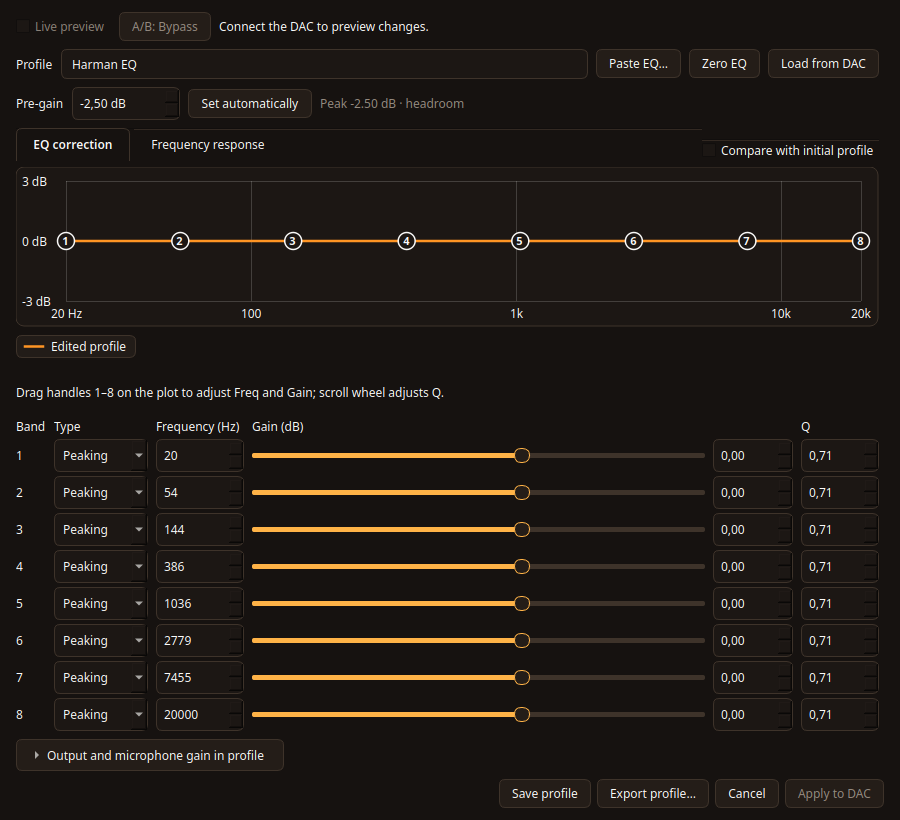
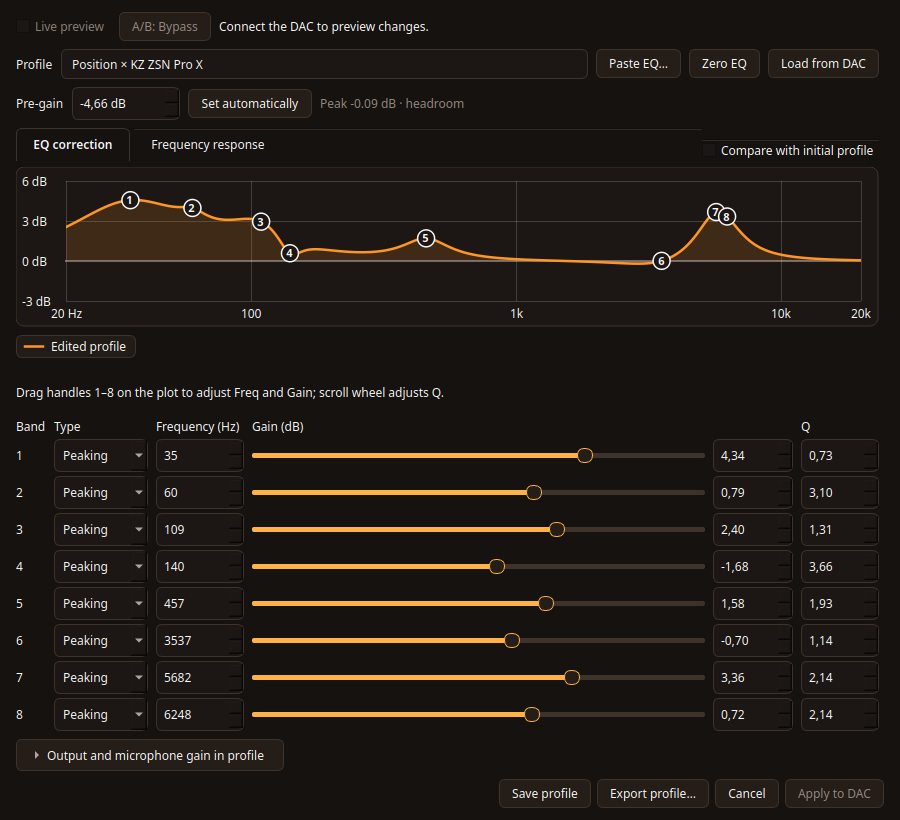
docs: use non-flat EQ editor screenshot and add spacing between README screenshots (#33)

diff --git a/README.pl.md b/README.pl.md
@@ -127,15 +127,21 @@ Manifest ([`pl.innovibe.DspControl.json`](pl.innovibe.DspControl.json)) używa `
 
 </details>
 
+<br>
+
 ### 2. Wbudowany katalog AutoEq (ponad 6800 modeli)
 Filtruj tysiące pomiarów według **Źródła**, **Typu słuchawek** i **Zakresu obliczeń** (`20 Hz–20 kHz` lub `6 / 4 / 2 kHz`) albo przeciągnij na okno własną krzywą `.csv` / `.txt`.
 
 ![Katalog AutoEq](docs/screenshots/pl/02-autoeq-catalog.png)
 
+<br>
+
 ### 3. Edytor EQ i odsłuch na żywo
 Przeciągaj punkty bezpośrednio na wykresie **Korekcja EQ**, zmieniaj Q kółkiem myszy i użyj **Ustaw automatycznie** do doboru pre-gainu. Przy podłączonym DAC-u **Odsłuch na żywo** uruchamia się automatycznie i bezpiecznie przywraca stan po anulowaniu.
 
 ![Edytor EQ](docs/screenshots/pl/04-eq-editor.png)
+
+<br>
 
 ### 4. Stan urządzenia, wzmocnienie i jakość PipeWire UAC2
 Podglądaj aktywny strumień ALSA, ustawiaj **Próbkowanie PipeWire** (`44,1–384 kHz`), eksportuj/przywracaj kopie zapasowe oraz przełączaj motywy (**InnoVibe Ciemny / Jasny**) i języki (**PL / EN**).
@@ -148,6 +154,8 @@ Podglądaj aktywny strumień ALSA, ustawiaj **Próbkowanie PipeWire** (`44,1–3
 ![Kompaktowy widok Urządzenia z pełną etykietą próbkowania i przyciskami Zastosuj oraz Odśwież](docs/screenshots/pl/07-device-compact.png)
 
 </details>
+
+<br>
 
 ### 5. Wbudowany Przewodnik, skróty i diagnostyka
 Instrukcje wewnątrz aplikacji, skróty klawiszowe (`Ctrl+F`, `Ctrl+O`, `Ctrl+Q`), kopiowanie diagnostyki jednym kliknięciem oraz odnośniki do wsparcia.
